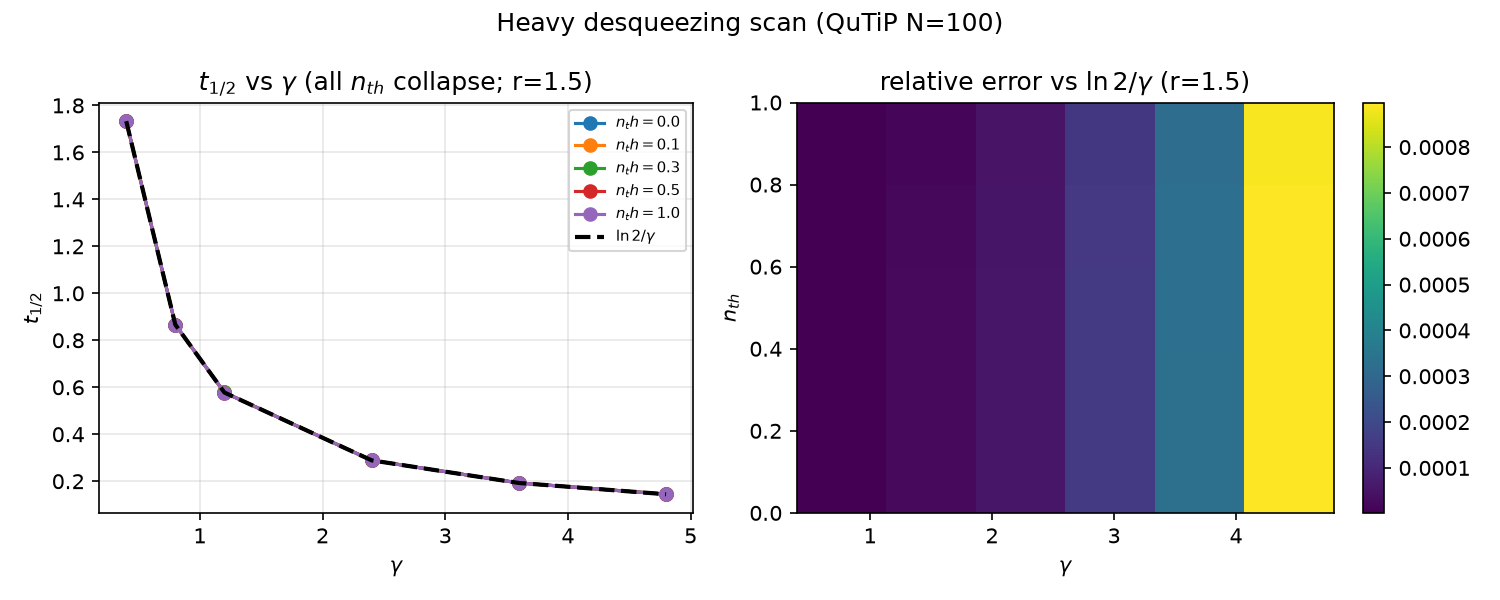
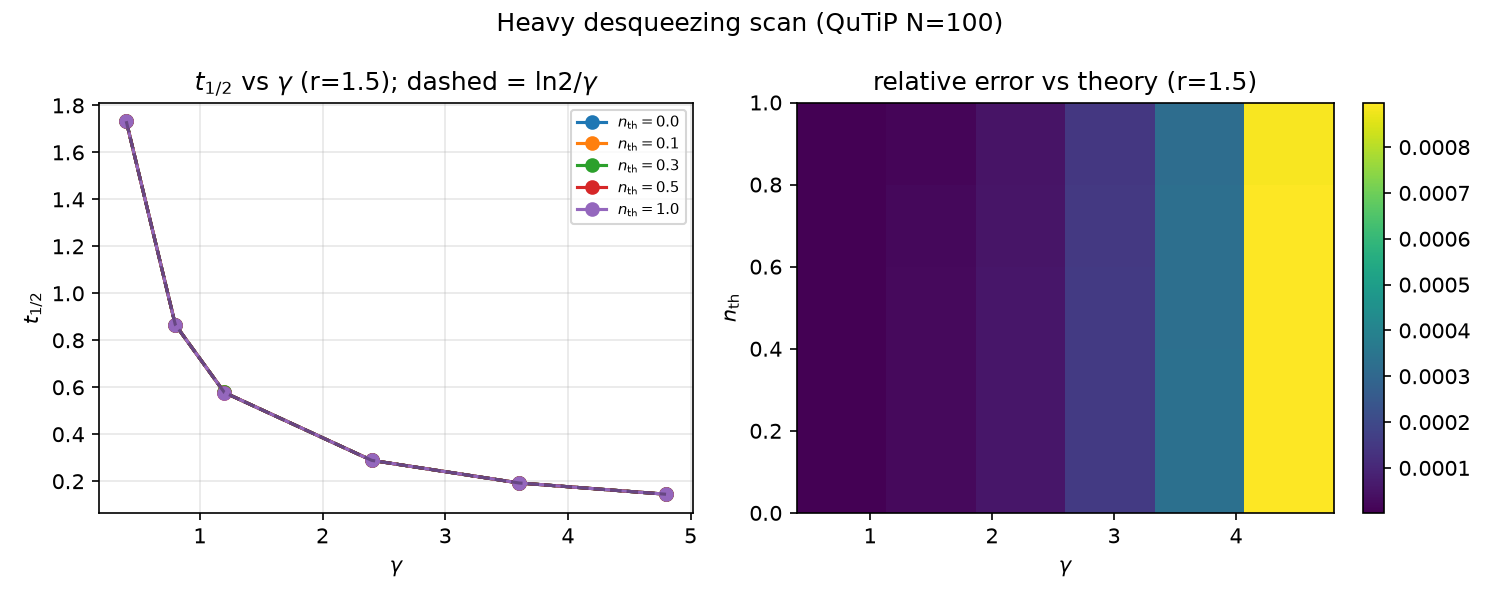
exploratory: fórmula de t½ corregida en heavy_scan, salida regenerada

diff --git a/exploratory/scripts/desqueezing_heavy_scan.py b/exploratory/scripts/desqueezing_heavy_scan.py
@@ -2,7 +2,8 @@
 """
 Heavy desqueezing scan with QuTiP: grid over (gamma, n_th, r).
 
-Validates t_1/2(|⟨a²⟩|) ≈ ln2 / [γ(1+2 n_th)] across a wider domain.
+Checks t_1/2(|⟨a²⟩|) = ln2 / γ across a wider domain
+(n_th sets the stationary state, not the rate; same correction as B1b in desqueezing_relax_time.py).
 Public-repo compatible.
 """
 
@@ -21,6 +22,7 @@ OUT = ROOT / "exploratory" / "results" / "desqueezing_heavy"
 OUT.mkdir(parents=True, exist_ok=True)
 
 N = 100  # Hilbert space (balance cost vs accuracy)
+LAW_TOL = 0.05  # "law holds" only if the median relative error is below this
 omega = 2.4
 t_max = 6.0
 n_t = 400
@@ -59,8 +61,9 @@ def run_one(gamma, n_th, r):
     res = qt.mesolve(H, psi0, tlist, c_ops, e_ops=[a * a], options={"nsteps": 50000})
     abs_a2 = np.abs(res.expect[0])
     t_half = first_half(tlist, abs_a2)
-    gamma_eff = gamma * (1.0 + 2.0 * n_th)
-    t_th = np.log(2.0) / gamma_eff
+    # |⟨a²⟩| ~ e^{-γ t}. n_th sets the stationary state (Var(q)_ss = n_th + 1/2), not the rate.
+    gamma_eff = gamma * (1.0 + 2.0 * n_th)  # kept as a column; it is not the rate of |⟨a²⟩|
+    t_th = np.log(2.0) / gamma
     rel = abs(t_half - t_th) / t_th if np.isfinite(t_half) and t_th > 0 else np.nan
     return {
         "gamma": float(gamma),
@@ -98,15 +101,18 @@ def main():
         w.writerows(rows)
 
     errs = [r["rel_err"] for r in rows if r["rel_err"] is not None]
+    law_holds = bool(np.median(errs) < LAW_TOL)
     summary = {
         "N": N,
         "n_runs": total,
         "median_rel_err": float(np.median(errs)),
         "max_rel_err": float(np.max(errs)),
         "mean_rel_err": float(np.mean(errs)),
-        "law": "t_1/2 = ln2 / [gamma (1+2 n_th)]",
+        "law": "t_1/2 = ln2 / gamma",
+        "law_tolerance_median_rel_err": LAW_TOL,
+        "law_holds": law_holds,
         "independent_of_r": True,
-        "csv": str(csv_path),
+        "csv": csv_path.relative_to(ROOT).as_posix(),
     }
     (OUT / "desqueezing_heavy_summary.json").write_text(json.dumps(summary, indent=2), encoding="utf-8")
 
@@ -125,7 +131,7 @@ def main():
             ax.plot(xs, yth, "k--", alpha=0.3)
     ax.set_xlabel(r"$\gamma$")
     ax.set_ylabel(r"$t_{1/2}$")
-    ax.set_title(r"$t_{1/2}$ vs $\gamma$ (r=1.5); dashed=theory")
+    ax.set_title(r"$t_{1/2}$ vs $\gamma$ (r=1.5); dashed = ln2/$\gamma$")
     ax.legend(fontsize=7)
     ax.grid(True, alpha=0.3)
 
@@ -155,8 +161,10 @@ def main():
         f"Heavy desqueezing: {total} runs, N={N}\n"
         f"median rel err = {summary['median_rel_err']:.4e}\n"
         f"max rel err    = {summary['max_rel_err']:.4e}\n"
-        f"Law t_1/2 = ln2/[γ(1+2n_th)] holds across grid.\n"
-        f"CSV: {csv_path}\n"
+        + (f"Law t_1/2 = ln2/γ holds across grid (median rel err < {LAW_TOL:.0%}).\n" if law_holds
+           else f"Law t_1/2 = ln2/γ does NOT hold (median rel err >= {LAW_TOL:.0%}).\n")
+        + f"n_th sets the stationary state, not the rate.\n"
+        f"CSV: {csv_path.relative_to(ROOT).as_posix()}\n"
     )
     (OUT / "desqueezing_heavy_summary.txt").write_text(text, encoding="utf-8")
     print(text)

diff --git a/exploratory/README.md b/exploratory/README.md
@@ -15,7 +15,7 @@ notes/     working notes and the Option 0 data pack
 | Script | Output folder | What it does |
 |:--|:--|:--|
 | `scripts/desqueezing_relax_time.py` | `results/desqueezing_relax_time/` | QuTiP scan of the half-life \(t_{1/2}(\gamma, n_{\rm th})\) |
-| `scripts/desqueezing_heavy_scan.py` | `results/desqueezing_heavy/` | Wider \((\gamma, n_{\rm th}, r)\) grid for the half-life of \(|\langle a^2\rangle|\). **Known issue:** the script still compares against the old formula \(\ln 2/[\gamma(1+2n_{\rm th})]\); the versioned outputs record the corrected law \(t_{1/2}=\ln 2/\gamma\) (see `analisis_cmb/REORGANIZACION_CHECK.md`) |
+| `scripts/desqueezing_heavy_scan.py` | `results/desqueezing_heavy/` | Wider \((\gamma, n_{\rm th}, r)\) grid checking \(t_{1/2}(|\langle a^2\rangle|)=\ln 2/\gamma\) (\(n_{\rm th}\) sets the stationary state, not the rate) |
 | `scripts/termico_vs_squeezed_recomendado.py` | `results/termico_vs_squeezed_recomendado/` | Thermal vs squeezed baselines |
 | `scripts/cosmological_mapping.py` | `results/cosmological_mapping/` | Gyr / Sorkin / Euclid / DESI mapping tables |
 | `scripts/sdiff_discrimination.py` | `results/sdiff_discrimination/` | Residual vs \(\theta\), minimum \(A_0\) for detection |
@@ -40,3 +40,15 @@ python exploratory/scripts/desqueezing_heavy_scan.py      # slowest
 ```
 
 The `.npz` series these scripts write are not versioned (see `.gitignore`).
+
+## Correction log
+
+**2026-10-17 — `desqueezing_heavy_scan.py`: reference half-life corrected** (same correction as block B1b in `desqueezing_relax_time.py`). The script compared the QuTiP half-life of \(|\langle a^2\rangle|\) with \(\ln 2/[\gamma(1+2n_{\rm th})]\) and printed "Law … holds" unconditionally; it also wrote the absolute local path of the CSV. Now the reference is \(t_{1/2}=\ln 2/\gamma\), "Law holds" is printed only if the median relative error is below 5 % ("Law does NOT hold" otherwise), and paths are relative to the repository. The simulated half-lives themselves are unchanged (the `t_half` column is identical).
+
+| Output | Before | After |
+|:--|:--|:--|
+| `desqueezing_heavy_grid.csv`, `t_half_theory` | \(\ln 2/[\gamma(1+2n_{\rm th})]\) | \(\ln 2/\gamma\) |
+| `desqueezing_heavy_grid.csv`, `rel_err` median / max | 0.600 / 2.003 | \(1.31\times 10^{-4}\) / \(8.98\times 10^{-4}\) |
+| `desqueezing_heavy_summary.txt` | median/max \(1.31\times 10^{-4}\) / \(8.98\times 10^{-4}\) and "t_1/2 = ln2/gamma", written by hand: it did not match the CSV or the script, which gave 0.60 / 2.0 | same numbers, now produced by the script: "Law t_1/2 = ln2/γ holds across grid (median rel err < 5%)" |
+| `desqueezing_heavy_summary.json` | `law_measured`, `note`, `*_vs_ln2_over_gamma` (hand-written) | `law` = "t_1/2 = ln2 / gamma", `law_tolerance_median_rel_err` = 0.05, `law_holds` = true, `csv` relative to the repository |
+| `desqueezing_heavy.png` | dashed reference \(\ln 2/[\gamma(1+2n_{\rm th})]\) | dashed reference \(\ln 2/\gamma\) |

diff --git a/analisis_cmb/REORGANIZACION_CHECK.md b/analisis_cmb/REORGANIZACION_CHECK.md
@@ -59,11 +59,11 @@ Ejecutados con el directorio de trabajo en `/tmp`, para comprobar que no depende
 | `euclid_protocol_forecasts.py` | 0 | 1 s | `exploratory/results/euclid_protocol/` | ninguna |
 | `sdiff_discrimination.py` | 0 | 1 s | `exploratory/results/sdiff_discrimination/` | ninguna |
 | `desqueezing_relax_time.py` | 0 | 36 s | `exploratory/results/desqueezing_relax_time/` | solo las 3 rutas del resumen (`results/…` → `exploratory/results/…`); se versiona |
-| `desqueezing_heavy_scan.py` | 0 | 135 s | `exploratory/results/desqueezing_heavy/` | resumen, JSON y PNG distintos (ver nota 1); no se versionan |
+| `desqueezing_heavy_scan.py` | 0 | 135 s | `exploratory/results/desqueezing_heavy/` | resumen, JSON y PNG distintos (ver nota 1, ya resuelta) |
 
-Notas (problemas anteriores a la reorganización; quedan sin resolver):
+Notas (problemas anteriores a la reorganización):
 
-1. **`desqueezing_heavy_scan.py` no reproduce su salida versionada.** El resumen versionado dice «t_1/2 = ln2/γ», con error relativo mediano 1.3e-4. El script actual compara con ln2/[γ(1+2 n_th)] y da error mediano 0.60 y máximo 2.0, pero imprime «Law … holds across grid». También escribe la ruta absoluta local en el JSON y en el resumen. La ley que sostienen la salida versionada y `desqueezing_relax_time.py` (corregida en B1b) es t½ = ln2/γ; el script heavy conserva la fórmula antigua. Se restauraron las salidas versionadas: hay que corregir el script.
+1. ~~`desqueezing_heavy_scan.py` no reproducía su salida versionada~~ — **resuelto** el 2026-10-17 en el commit «exploratory: fórmula de t½ corregida en heavy_scan, salida regenerada» (antes/después en `exploratory/README.md`, sección *Correction log*).
 2. **`termico_vs_squeezed_recomendado_resumen.txt` versionado** es un resumen corto en inglés escrito a mano; el script escribe uno largo en español. Los números coinciden (Var(0) con error 0.0497 %, termalización a Var(q) = 0.6 y ⟨n⟩ = 0.1). Se restauró la versión versionada.
 
 `scripts/gpe/gpe_sim.py` (nuevo `savefig`): ejecutado desde `/tmp`, código 0, escribe en `results/gpe/` y nada en el cwd; los dos PNG salen idénticos a los versionados.
